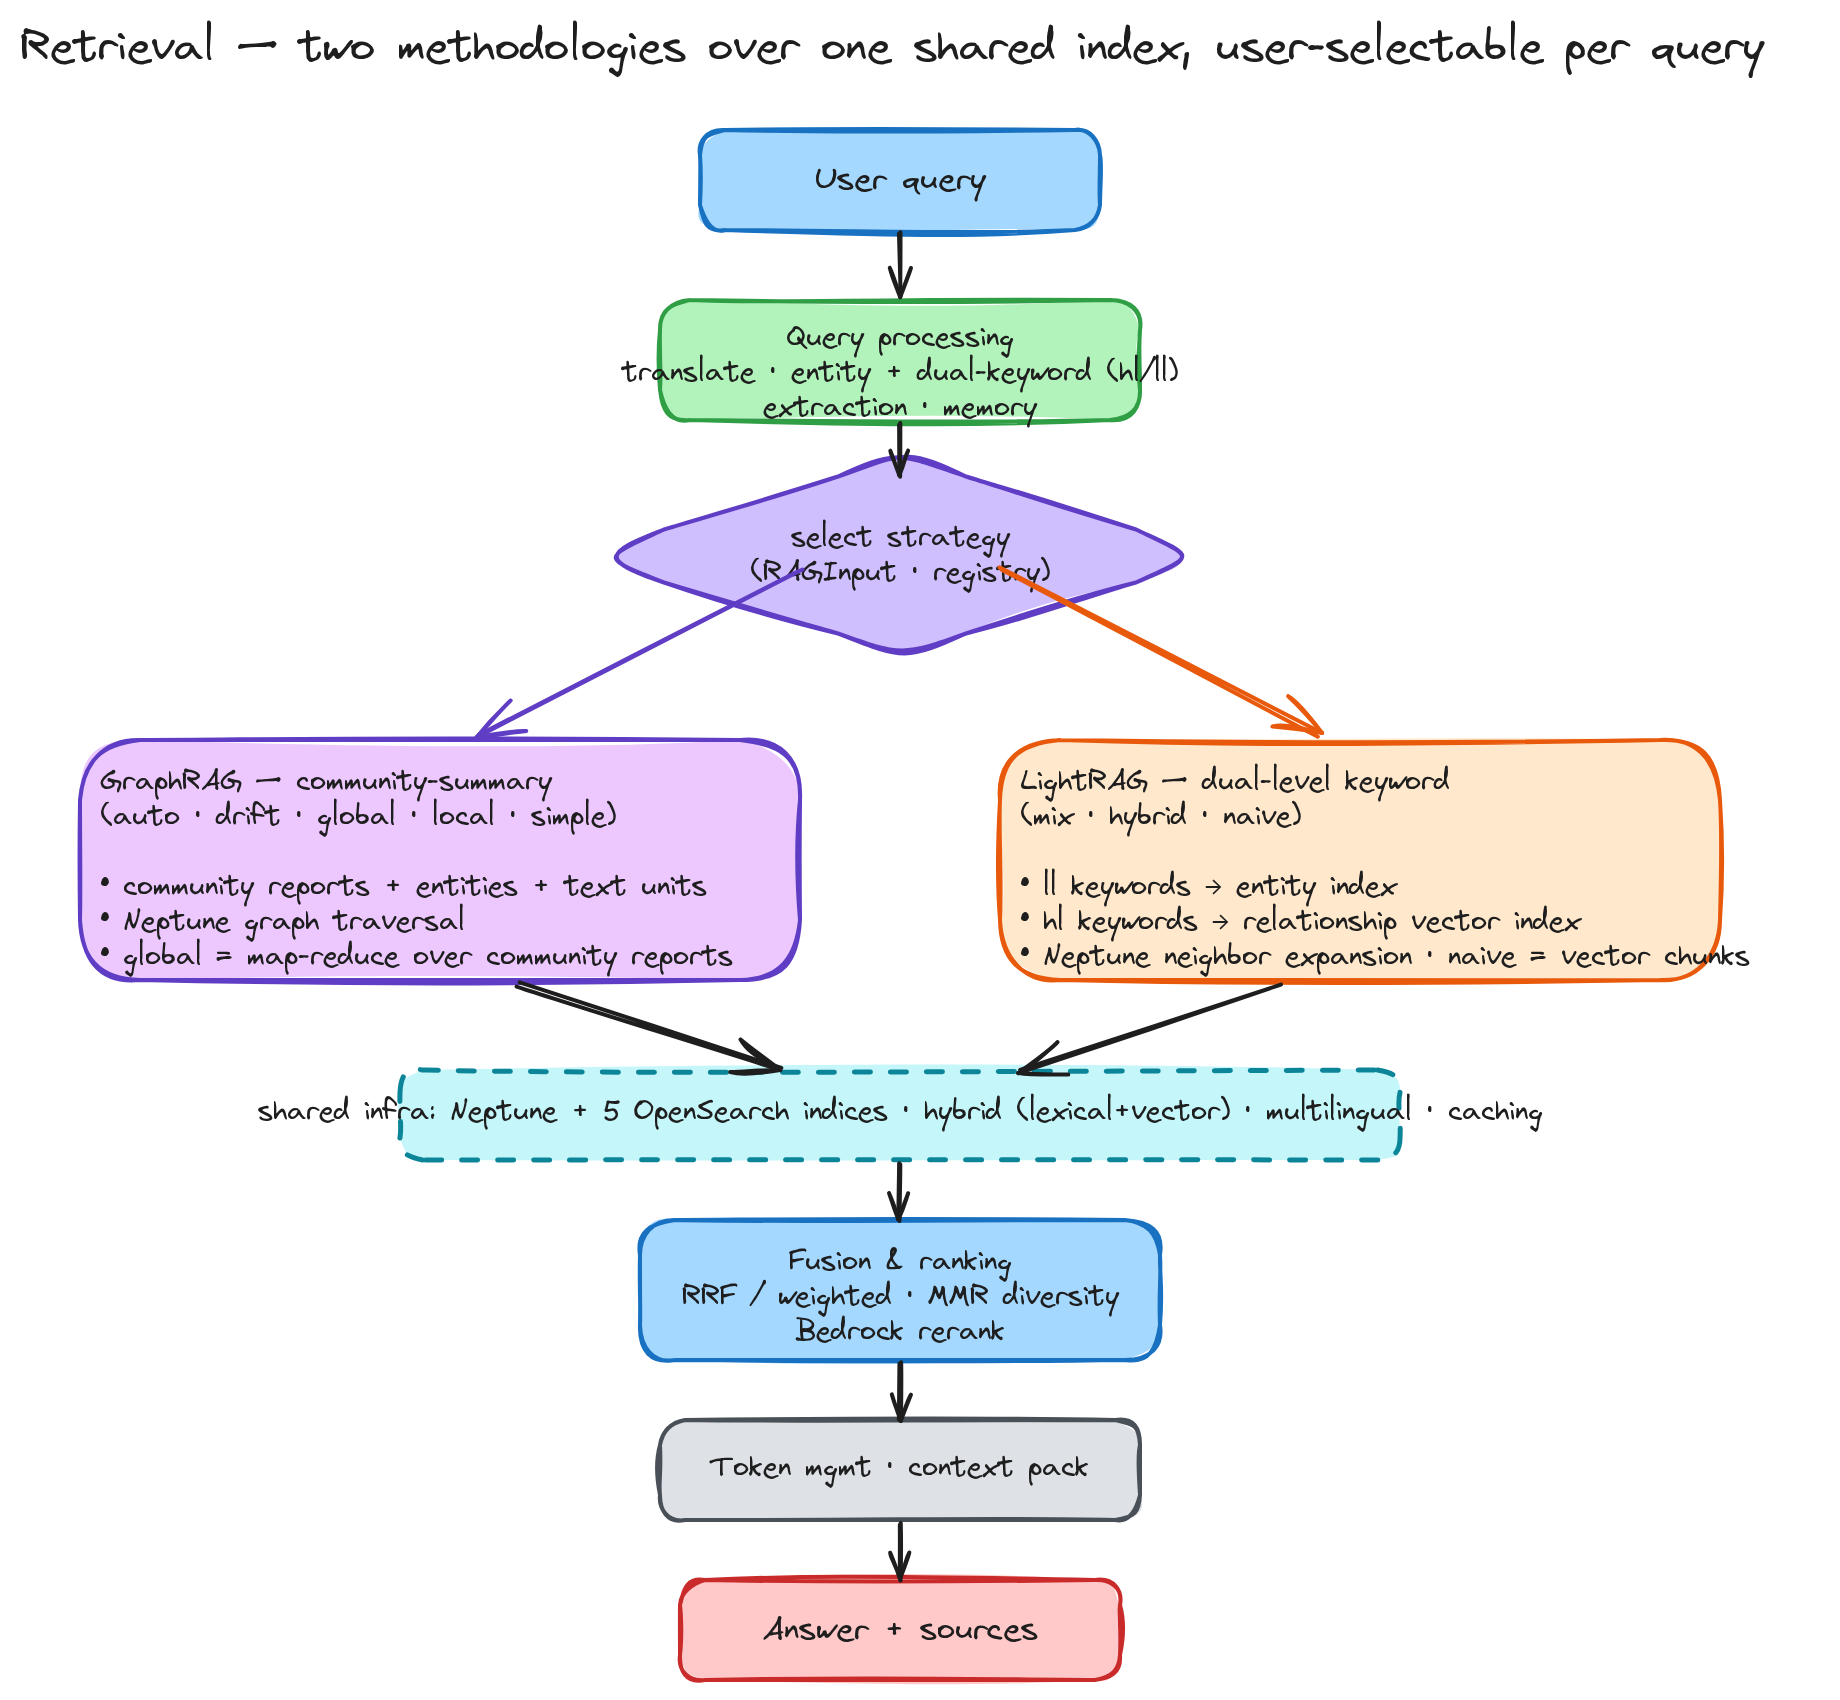
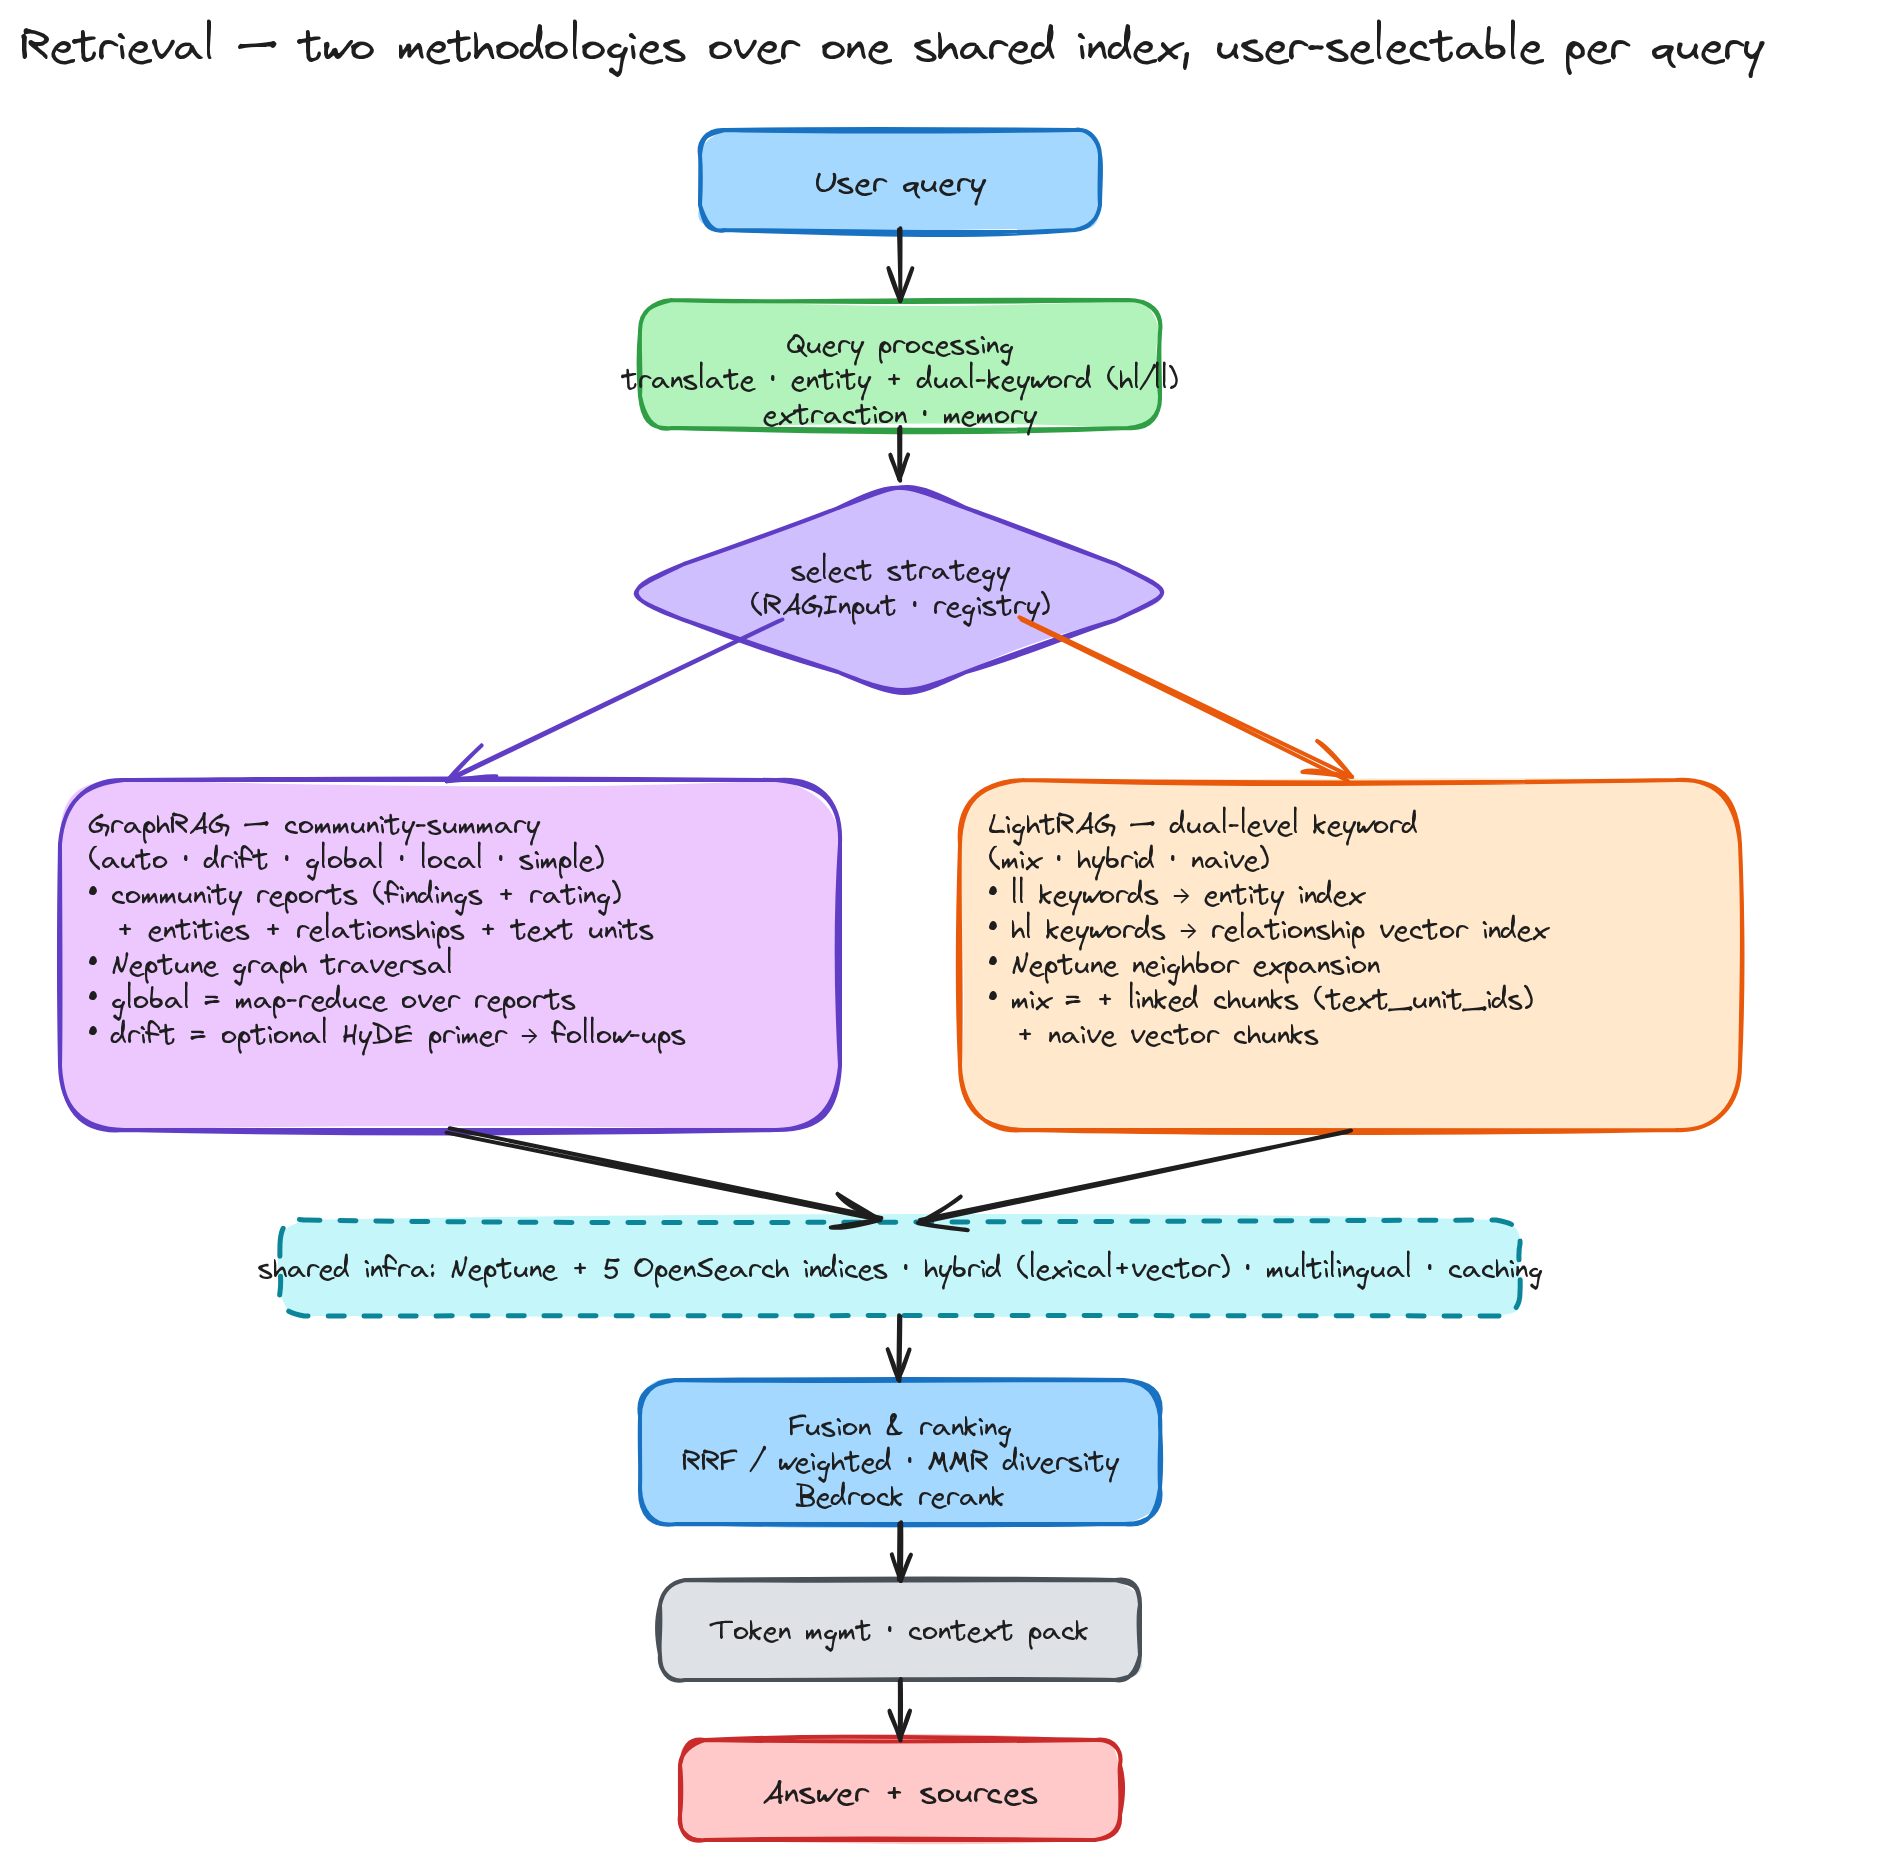
docs: align config default + refresh diagrams for new features
- config: min_improvement_threshold shown as 0.03 in config-template +
  user-guide (EN/KO) but the model default is 0.05; aligned the docs to the
  schema (0.05) so YAML and Python-API users get the same behavior.
- diagrams: ingestion + retrieval excalidraw/PNG regenerated with larger boxes
  (no text overflow — addresses the spillover) and the new features surfaced:
  ingestion = graph-resolution LLM re-summarization + community structured
  reports (findings + rating) + sub-community rollup; retrieval = DRIFT optional
  HyDE primer→follow-ups + LightRAG mix linked chunks (text_unit_ids).

Changed region(s): [[0.031, 0.0624, 0.9603, 0.9976], [0.0, 0.0, 0.9603, 0.0624]]

diff --git a/docs/user-guide.ko.md b/docs/user-guide.ko.md
@@ -254,7 +254,7 @@ target_language`이고 `additional_target_languages`가 비어 있으면 **no-op
     max_rounds: 3
     convergence_threshold: 0.8
     quality_threshold: 0.9
-    min_improvement_threshold: 0.03
+    min_improvement_threshold: 0.05
     # ...count-based quality/convergence scaling constants
 ```
 

diff --git a/docs/user-guide.md b/docs/user-guide.md
@@ -252,7 +252,7 @@ missed on the first pass (quality vs. cost trade-off).
     max_rounds: 3
     convergence_threshold: 0.8
     quality_threshold: 0.9
-    min_improvement_threshold: 0.03
+    min_improvement_threshold: 0.05
     # ...count-based quality/convergence scaling constants
 ```
 